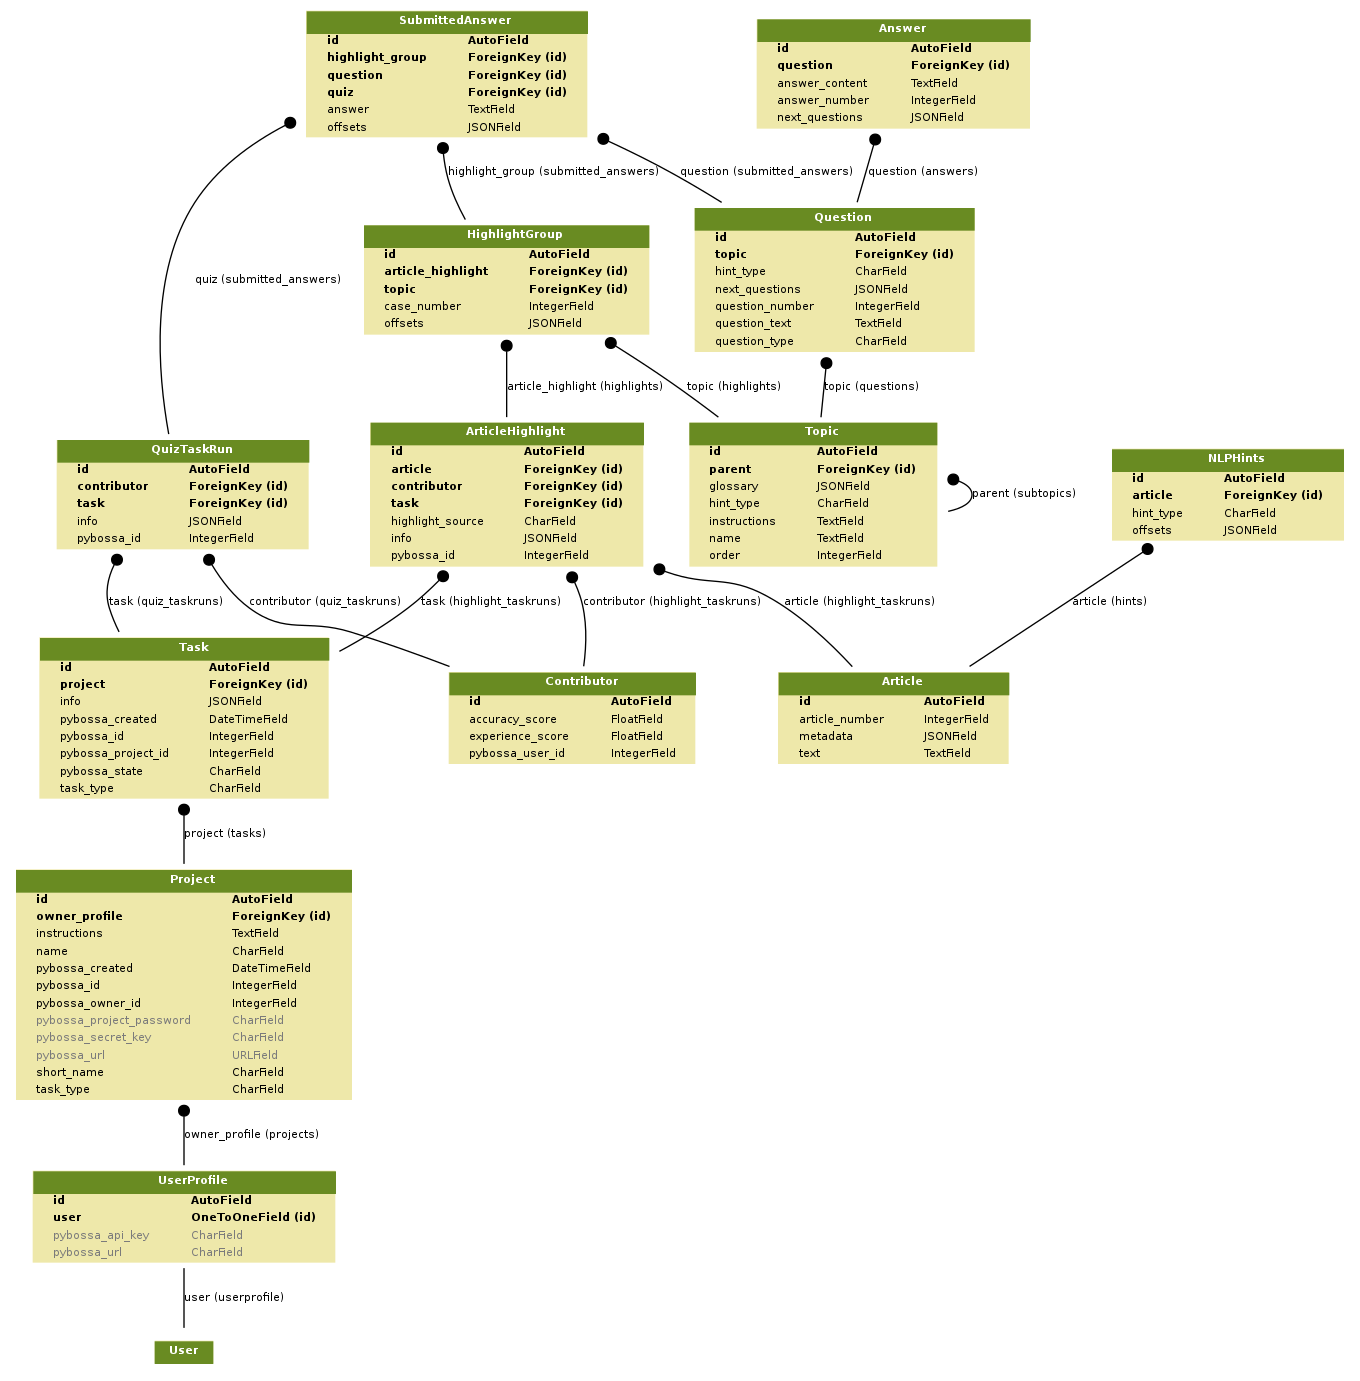
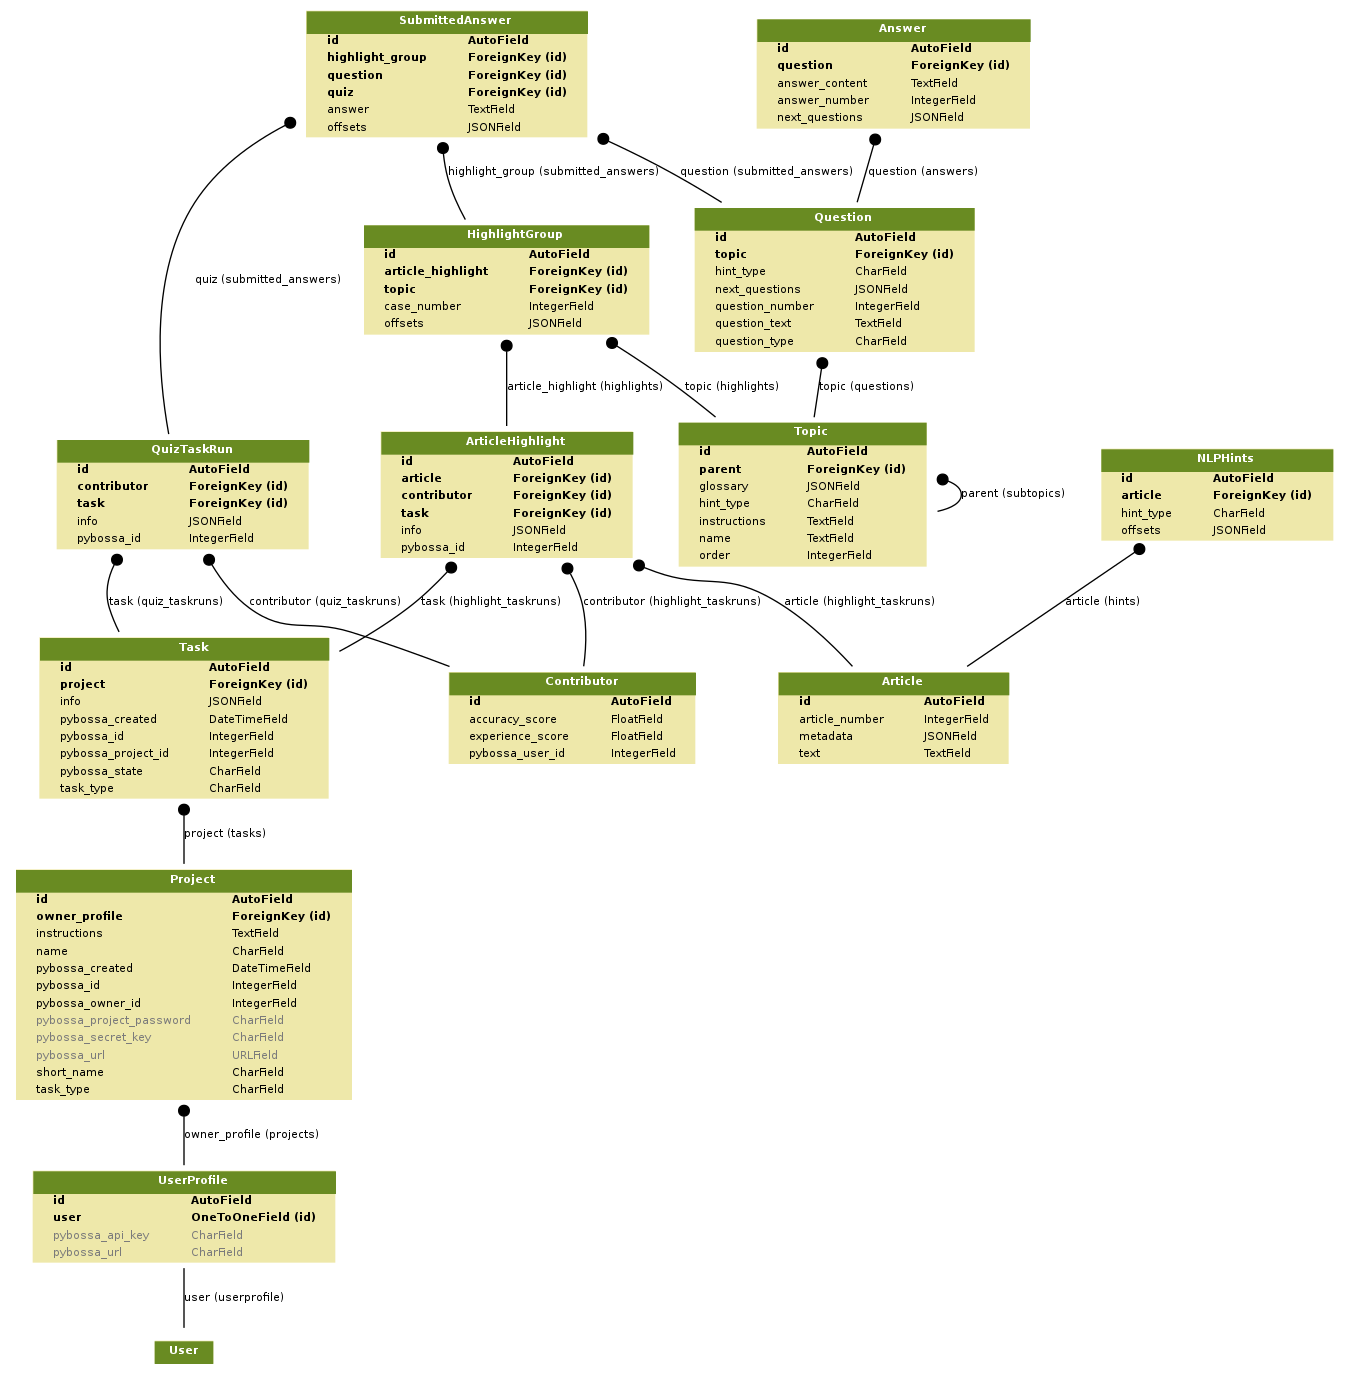
Remove field highlight_source from [ArticleHighlight]
Update diagrams.

Reset Django migrations from scratch.

diff --git a/thresher/migrations/0001_initial.py b/thresher/migrations/0001_initial.py
@@ -1,5 +1,5 @@
 # -*- coding: utf-8 -*-
-# Generated by Django 1.11.2 on 2017-06-05 00:08
+# Generated by Django 1.11.2 on 2017-06-05 01:42
 from __future__ import unicode_literals
 
 from django.conf import settings
@@ -39,7 +39,6 @@ class Migration(migrations.Migration):
             name='ArticleHighlight',
             fields=[
                 ('id', models.AutoField(auto_created=True, primary_key=True, serialize=False, verbose_name='ID')),
-                ('highlight_source', models.CharField(choices=[(b'HLTR', b'Highlighter'), (b'QUIZ', b'Quiz')], max_length=4)),
                 ('pybossa_id', models.IntegerField(db_index=True, null=True)),
                 ('info', django.contrib.postgres.fields.jsonb.JSONField(null=True)),
                 ('article', models.ForeignKey(on_delete=django.db.models.deletion.CASCADE, related_name='highlight_taskruns', to='thresher.Article')),

diff --git a/thresher/models.py b/thresher/models.py
@@ -262,13 +262,6 @@ class ArticleHighlight(models.Model):
                              null=True,
                              related_name="highlight_taskruns",
                              on_delete=models.CASCADE)
-    # Source of the highlight
-    HIGHLIGHT_SOURCE_CHOICES = (
-        ('HLTR', 'Highlighter'),
-        ('QUIZ', 'Quiz'),
-    )
-    highlight_source = models.CharField(choices=HIGHLIGHT_SOURCE_CHOICES,
-                                                max_length=4)
     # Allow null to avoid making changes to test data loader in data.load_data
     # Pybossa id of taskrun contributor
     contributor = models.ForeignKey(Contributor,

diff --git a/data/load_data.py b/data/load_data.py
@@ -254,8 +254,7 @@ def load_article(article):
 def load_annotations(article, article_obj):
     # In future usage, the articles being imported will not be highlighted
     # already and thus won't have 'annotators'.
-    article_highlight = ArticleHighlight.objects.create(article=article_obj,
-                                                        highlight_source='HLTR')
+    article_highlight = ArticleHighlight.objects.create(article=article_obj)
 
     for tua_type, tuas in article['tuas'].iteritems():
         try:

diff --git a/thresher/serializers.py b/thresher/serializers.py
@@ -57,7 +57,7 @@ class ArticleHighlightSerializer(serializers.ModelSerializer):
 
     class Meta:
         model = ArticleHighlight
-        fields = ('id', 'highlights', 'created_by', 'highlight_source')
+        fields = ('id', 'highlights', 'created_by')
 
 class ArticleSerializer(serializers.ModelSerializer):
     class Meta:

diff --git a/data/pybossa_api.py b/data/pybossa_api.py
@@ -353,7 +353,6 @@ def save_highlight_taskrun(task, taskrun):
             article_id=task.info['article']['id'], # safe - from our database
             pybossa_user_id=taskrun['user_id'],
             pybossa_id=taskrun_id,
-            highlight_source=task.task_type,
             info=taskrun
         )
 
